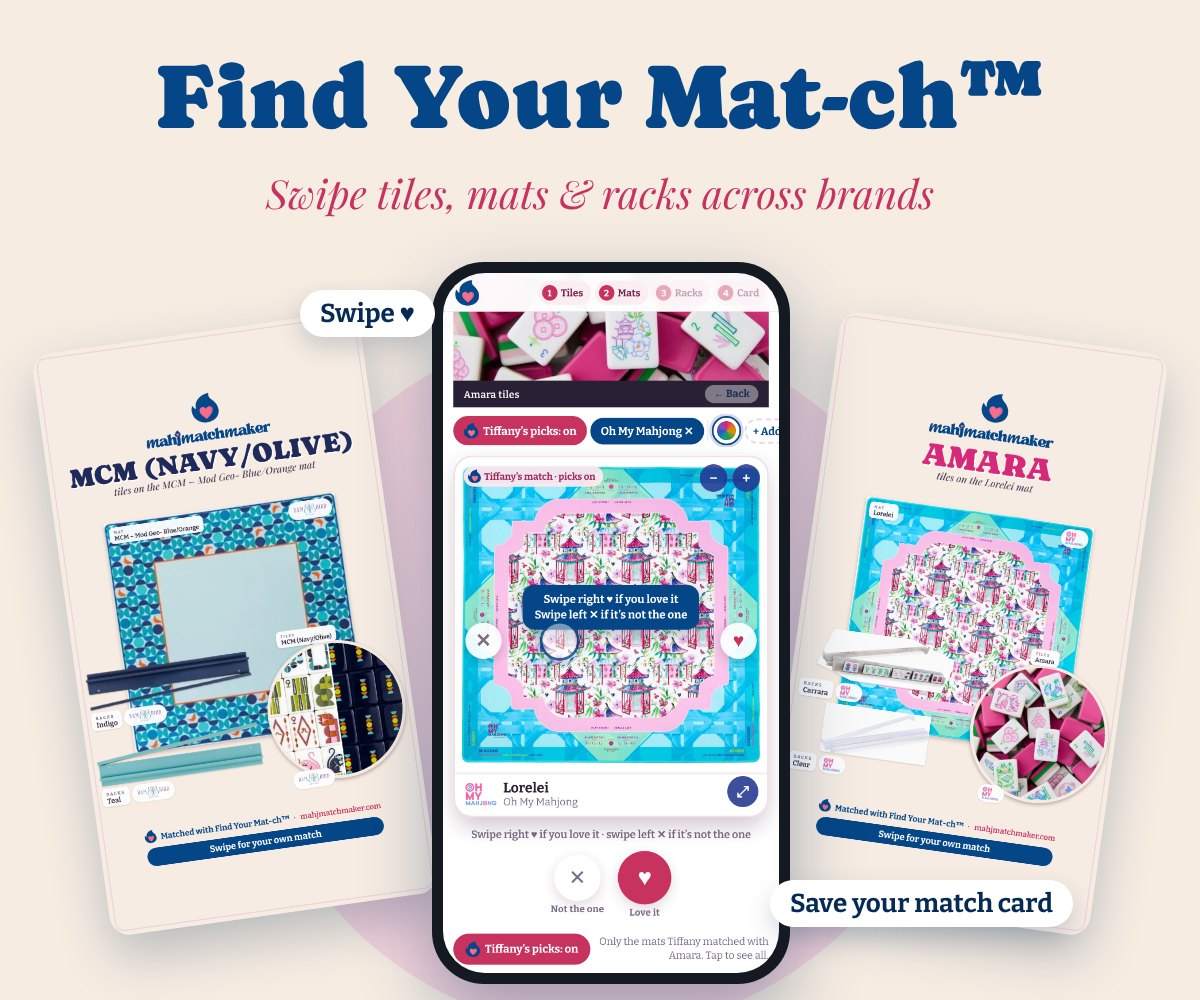
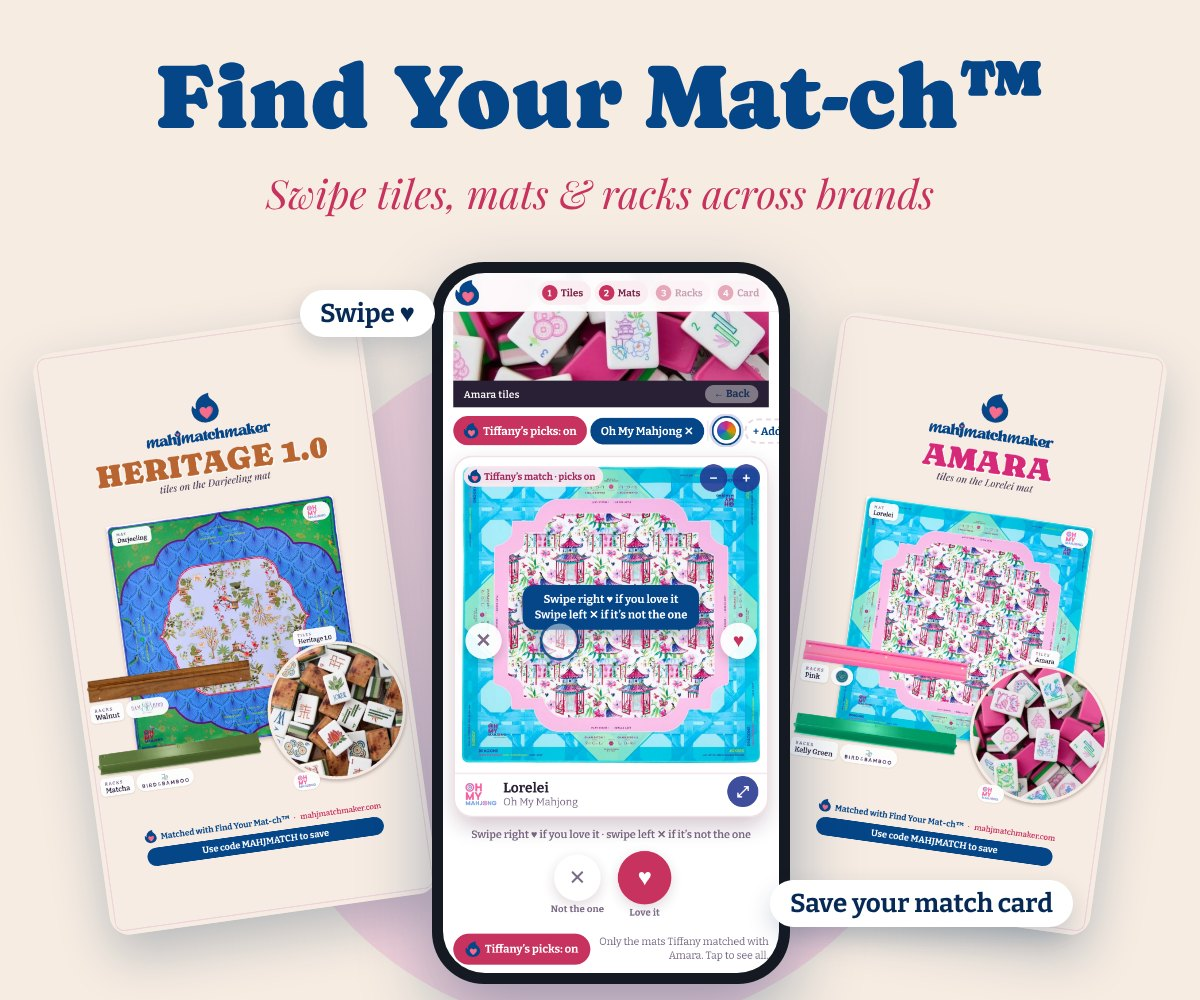
Partner email hero v3 (Tiffany 12:17 rejected white-box racks): Heritage 1.0/Darjeeling (Bam Bird Walnut + B&B Matcha) + Amara/Lorelei (PLM Pink + B&B Kelly Green)
Claude-Session: https://claude.ai/code/session_01U7RfeJEDwDLRZnhiPmiFwy

diff --git a/site/livepatch/partner-email-oct26/hero-src-v3.html b/site/livepatch/partner-email-oct26/hero-src-v3.html
@@ -1,0 +1,17 @@
+<!doctype html><html><head><style>
+@font-face{font-family:Cap;src:url(file:///home/claude/mahjmatchmaker-data/assets/fonts/Caprasimo.ttf)}@font-face{font-family:Bit;src:url(file:///home/claude/mahjmatchmaker-data/assets/fonts/bitter-latin-700-normal.woff2)}@font-face{font-family:Pf;font-style:italic;src:url(file:///home/claude/mahjmatchmaker-data/assets/fonts/playfair-display-latin-400-italic.woff2)}
+body{margin:0;width:1200px;height:1000px;background:#f6ece2;position:relative;overflow:hidden}
+.glow{position:absolute;left:250px;top:330px;width:700px;height:700px;border-radius:50%;background:#f3d3dc}
+h1{position:absolute;top:44px;width:100%;text-align:center;margin:0;font:400 92px Cap;color:#054689}
+.sub{position:absolute;top:166px;width:100%;text-align:center;font:italic 40px Pf;color:#c8325f}
+.card{position:absolute;width:330px;border-radius:20px;box-shadow:0 22px 50px rgba(6,42,85,.25)}
+.ph{position:absolute;left:432px;top:262px;width:336px;border-radius:52px;background:#151a22;padding:11px;box-shadow:0 30px 70px rgba(6,42,85,.35);z-index:3}
+.ph .scr{border-radius:42px;overflow:hidden;height:700px}.ph img{width:100%;display:block}
+.lab{position:absolute;font:700 26px Bit;color:#062a55;background:#fff;border-radius:40px;padding:8px 20px;box-shadow:0 10px 24px rgba(6,42,85,.18);z-index:4}
+</style></head><body><div class="glow"></div>
+<h1>Find Your Mat-ch&trade;</h1><div class="sub">Swipe tiles, mats &amp; racks across brands</div>
+<img class="card" src="file:///tmp/claude-0/-home-claude/05549d34-8fe3-5ca9-a6a5-308991cb9a78/scratchpad/hero3/her1.jpg" style="left:70px;top:330px;transform:rotate(-8deg)">
+<img class="card" src="file:///tmp/claude-0/-home-claude/05549d34-8fe3-5ca9-a6a5-308991cb9a78/scratchpad/hero3/amara2.jpg" style="left:800px;top:330px;transform:rotate(8deg)">
+<div class="ph"><div class="scr"><img src="file:///tmp/claude-0/-home-claude/05549d34-8fe3-5ca9-a6a5-308991cb9a78/scratchpad/hero/swipe.png"></div></div>
+<div class="lab" style="left:300px;top:290px">Swipe &hearts;</div><div class="lab" style="left:770px;top:880px">Save your match card</div>
+</body></html>
